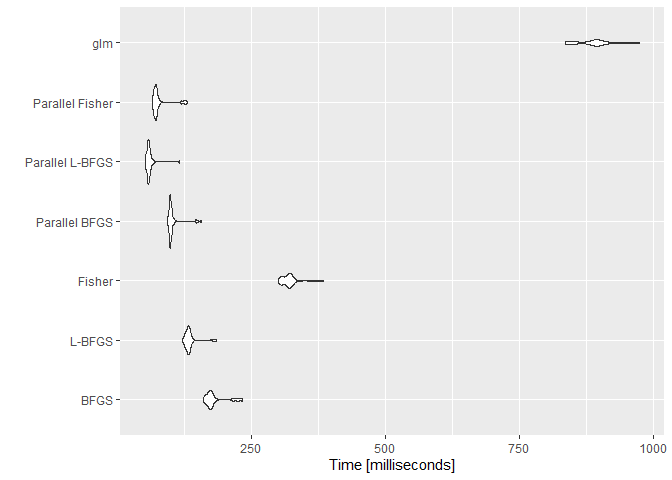
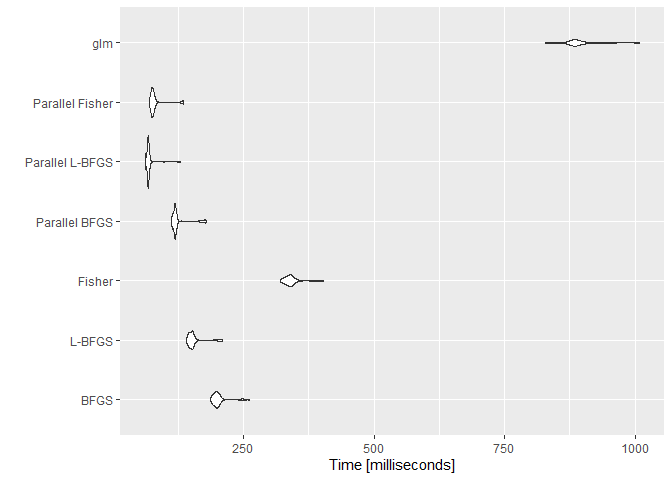
Updating for version 1.3.0

diff --git a/README.md b/README.md
@@ -152,7 +152,7 @@ system.time(BranchVS <- VariableSelection(y ~ ., data = df,
 ```
 
     ##    user  system elapsed 
-    ##     0.2     0.0     0.2
+    ##    0.19    0.00    0.19
 
 ``` r
 Xy <- cbind(df[,-1], df[,1])
@@ -162,7 +162,7 @@ system.time(BestVS <- bestglm(Xy, family = binomial(), IC = "AIC", TopModels = 1
 ```
 
     ##    user  system elapsed 
-    ##  126.46    0.24  126.71
+    ##  127.55    0.28  127.82
 
 ### Checking results
 
@@ -191,24 +191,24 @@ df <- LogisticSimul(1000, 40, .5, sd = .5)
 
 system.time(BranchVS <- VariableSelection(y ~ ., data = df, 
                                       family = "binomial", link = "logit",
-                  type = "branch and bound", showprogress = FALSE,
+                  type = "switch branch and bound", showprogress = FALSE,
                   parallel = FALSE, nthreads = 8, method = "Fisher"))
 ```
 
     ##    user  system elapsed 
-    ##  150.74    0.00  150.74
+    ##   91.37    0.02   91.39
 
 ### Parallel time
 
 ``` r
 system.time(ParBranchVS <- VariableSelection(y ~ ., data = df, 
                                       family = "binomial", link = "logit",
-                  type = "branch and bound", showprogress = FALSE,
+                  type = "switch branch and bound", showprogress = FALSE,
                   parallel = TRUE, nthreads = 12, method = "Fisher"))
 ```
 
     ##    user  system elapsed 
-    ##  211.17    0.92   27.83
+    ##  138.24    0.47   14.21
 
 ### Checking results
 
